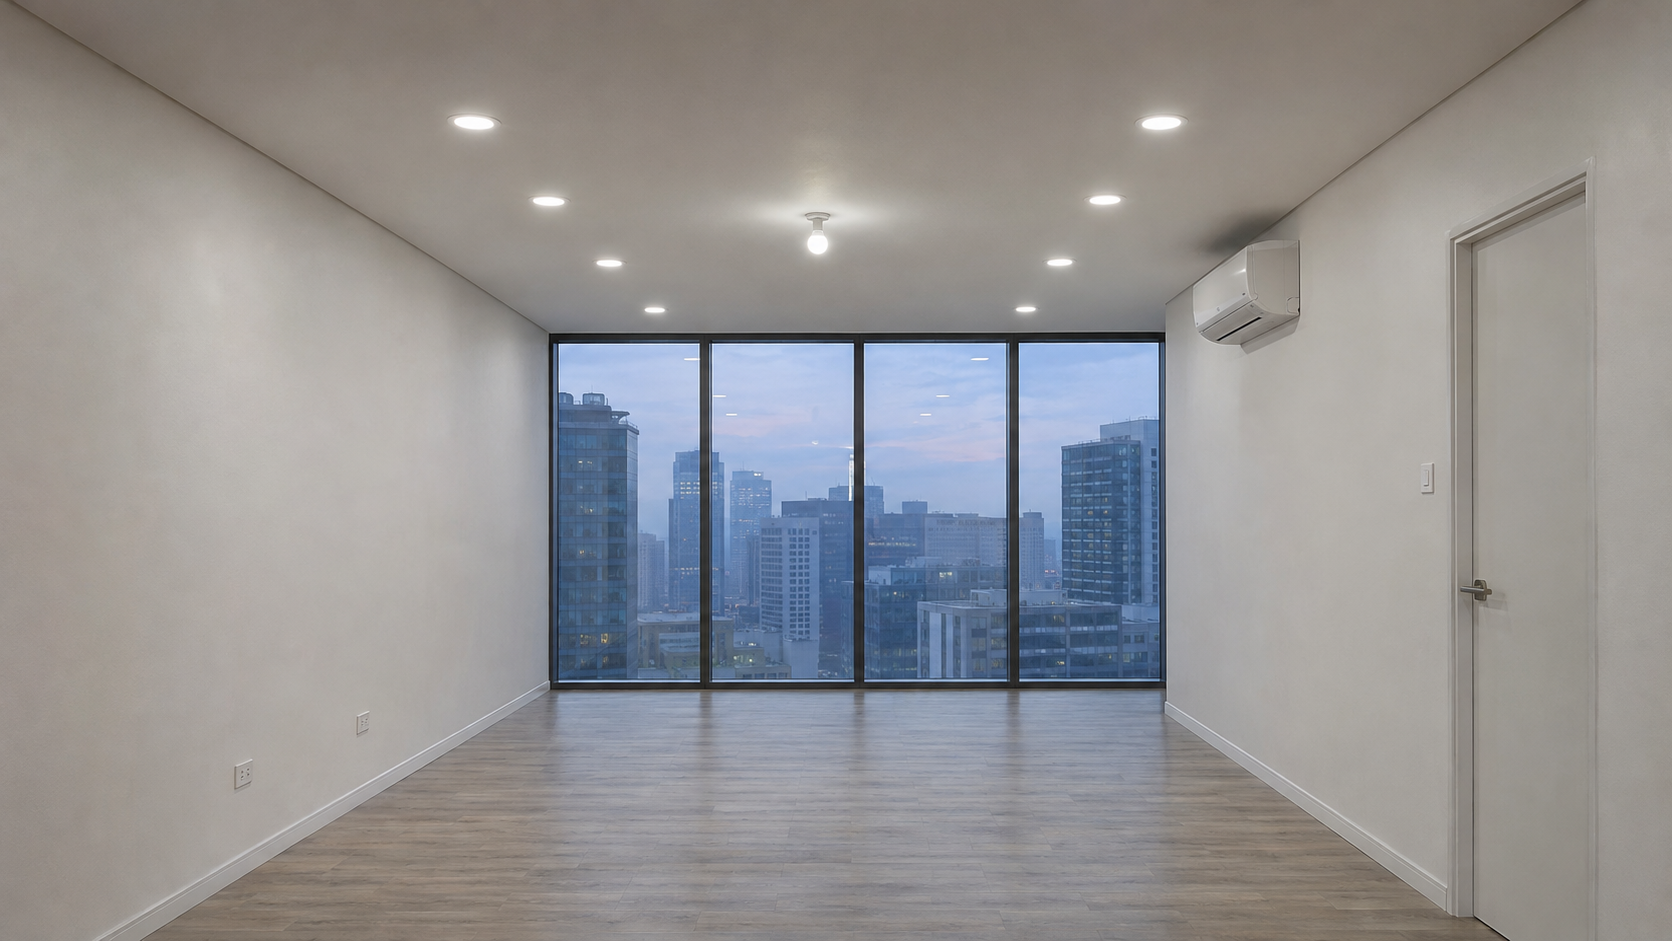
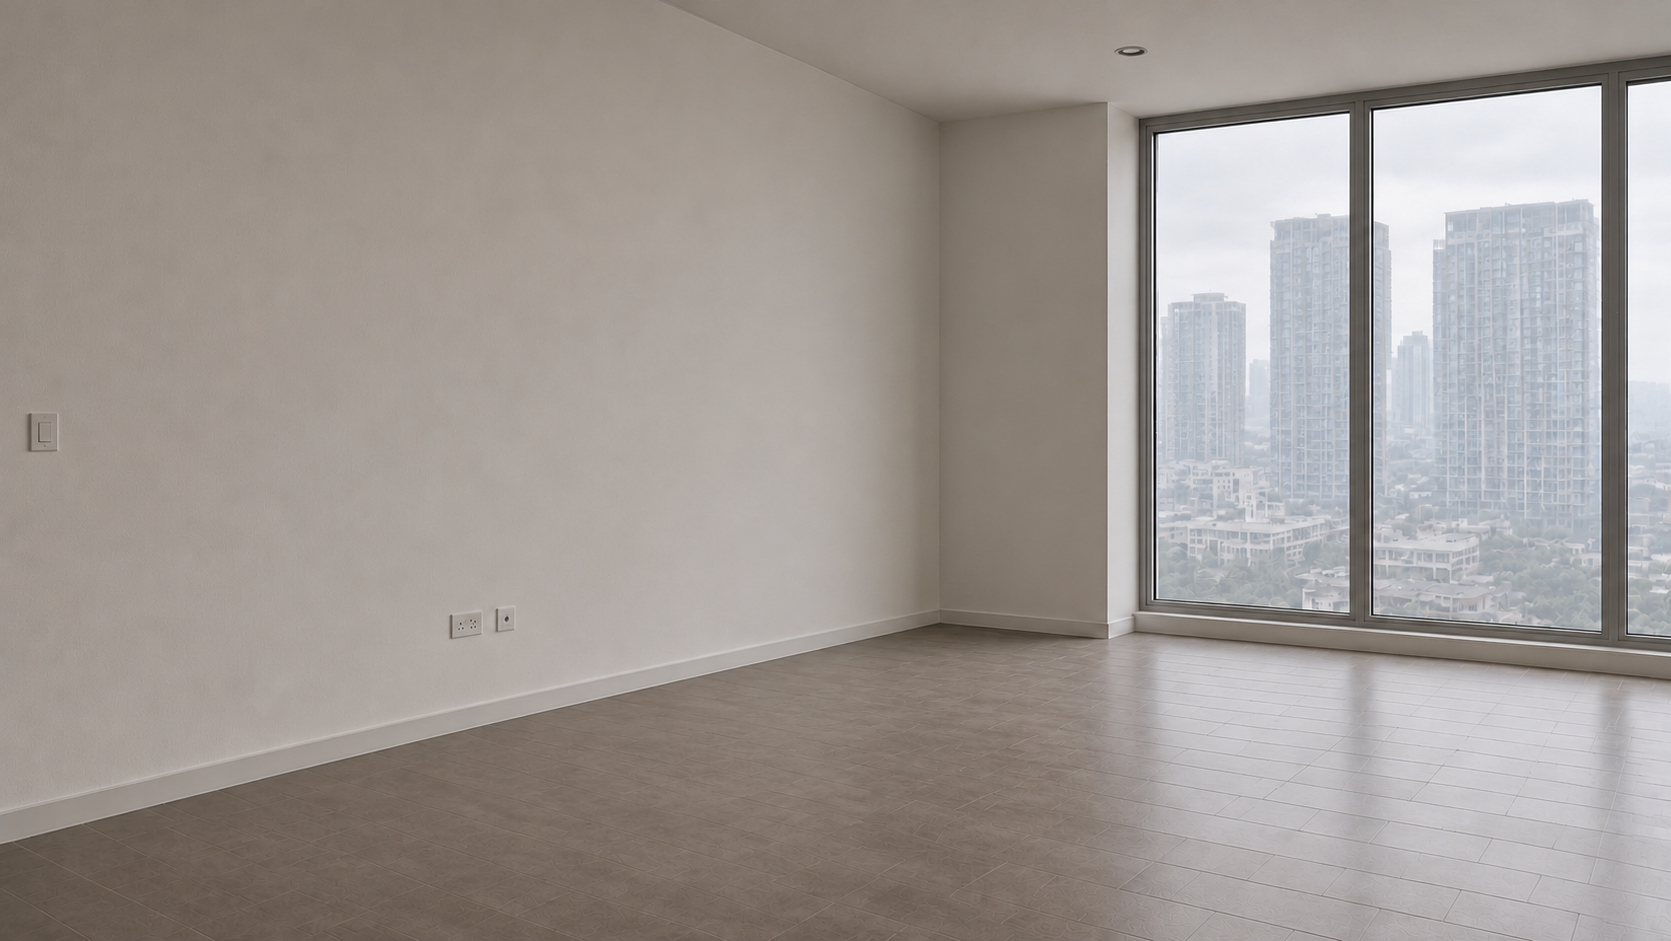
design: new Tanaw hero pair; screen wall and reading chair updated to match; site export

diff --git a/docs/decisions.md b/docs/decisions.md
@@ -185,6 +185,7 @@ Aedwon judged five more rooms, each with three afters at different levels of cha
 | 2026-11-16 | Full-Service Furnishing starting price lowered from ₱1,500,000 to ₱500,000, including the design fee (about one furnished room with Kanlungan pieces). | Locked by Aedwon | `docs/concept/services.md` |
 | 2026-11-16 | Home closing panel line: "Bring the rooms you have and the life you want in them. We'll do the rest, starting with a free 30-minute call." | Picked by Aedwon | `docs/content/copy.md` |
 | 2026-11-16 | Home services section: option C (comparison layout), to be refined. | Picked by Aedwon from rendered options | `design/round-9-services/options.html` |
+| 2026-11-16 | Tanaw hero rethought: the one-point evening view read as fake. New hero is a corner view in overcast late-morning light (round 10, option A) with real books and the TV; its before was made by emptying it. The screen-wall and reading-chair frames were updated to match. Old images kept in `design/tanaw/raw/`. | Picked by Aedwon from rendered options | `design/round-10-tanaw/` |
 | 2026-11-16 | Name check before release: about 54 names searched; one collision and three near misses renamed. Tala Wall Light becomes Sulo Wall Light (Tala is a real lighting brand). Kiso Stool becomes Asa Stool (Kiso is a real furniture line). Habi Wall Piece becomes Hibla Wall Piece (HABI is the Philippine textile council). The painter Paolo Sarmiento becomes Paolo Vergara (Sarmiento is a known painter family). Prices are plausible at the premium end. A trademark search is still advised before any commercial use. Renames apply after build wave 5a. | Decided on delegation | `docs/content/catalog.md` |
 
 ## Open questions for Aedwon
